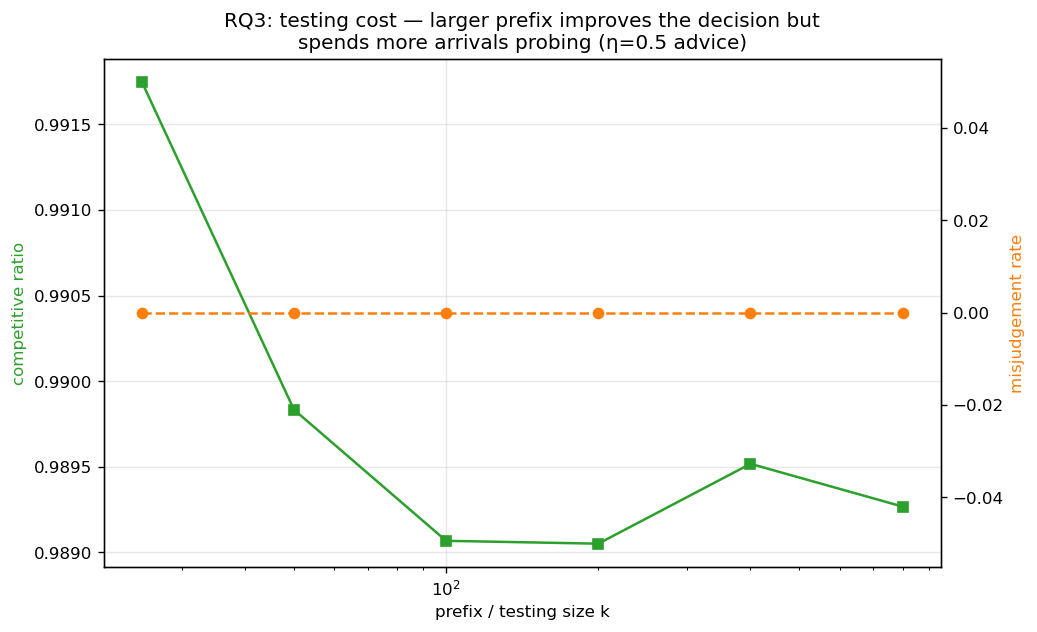
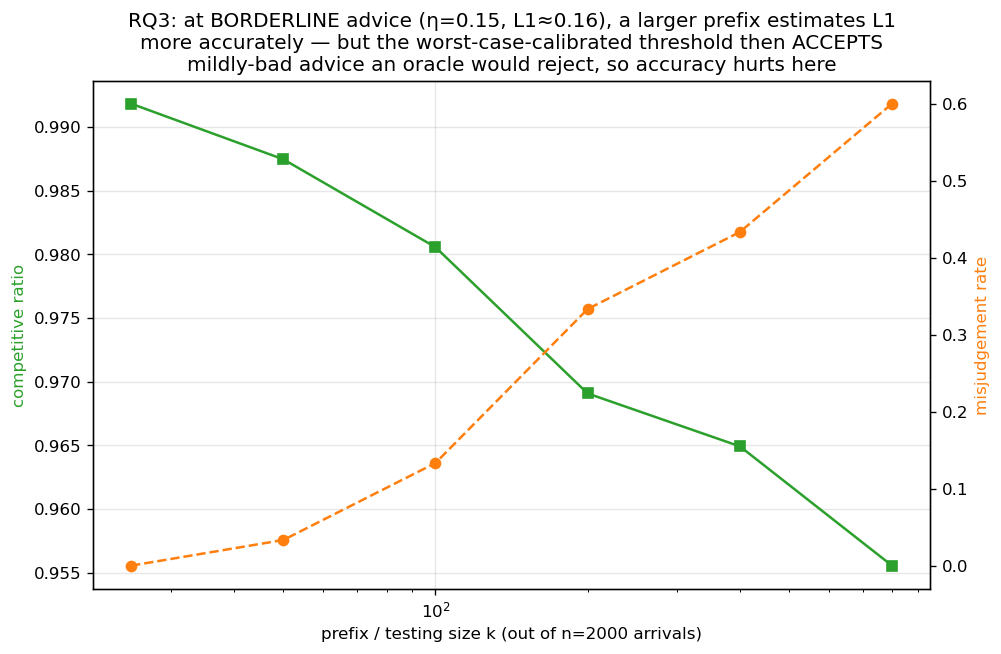
Update README and reports for Phase 3c; refine results and findings for Choo/BEM adaptive fallback

diff --git a/scripts/run_choo_bem.py b/scripts/run_choo_bem.py
@@ -134,7 +134,7 @@ def main():
 
     print("=== Consistency/robustness envelope (ratio vs L1) ===")
     env = envelope()
-    print("\n=== RQ3: testing-cost tradeoff (prefix sweep, η=0.5) ===")
+    print("\n=== RQ3: testing-cost tradeoff (prefix sweep, borderline η=0.15) ===")
     pre = prefix_sweep()
 
     data = {"envelope": env, "prefix_sweep": pre}
@@ -174,8 +174,9 @@ def main():
         ax2.plot(ks, [p["misjudge"] for p in pre], "o--", color="C1",
                  label="misjudgement rate")
         ax2.set_ylabel("misjudgement rate", color="C1")
-        ax1.set_title("RQ3: testing cost — larger prefix improves the decision but\n"
-                      "spends more arrivals probing (η=0.5 advice)")
+        ax1.set_title("RQ3: at borderline advice (η=0.15, L1≈0.16), a larger prefix estimates\n"
+                      "L1 more accurately — but the worst-case-calibrated threshold then accepts\n"
+                      "mildly-bad advice an oracle would reject, so accuracy hurts here")
         ax1.grid(True, alpha=0.3)
         fig.savefig(out_dir / "choo_bem_prefix.png", dpi=120, bbox_inches="tight")
         plt.close(fig)

diff --git a/docs/PHASE3C_REPORT.md b/docs/PHASE3C_REPORT.md
@@ -1,0 +1,152 @@
+# Phase 3c Report — Adaptive Test-and-Fallback (Choo 2024 / BEM 2026)
+
+**Status:** complete. This is the last prediction-based algorithm family in the
+plan — the *adaptive* ones that detect whether advice is trustworthy and fall
+back to a safe baseline if not.
+**Spec:** docs/PHASE3_SPEC.md §3.2 (Choo / TestAndMatch), §3.3 (BEM / Test-and-Match+).
+
+## 1. What was built
+
+| Component | File | Notes |
+|---|---|---|
+| Few-types graph | `graphs/synthetic.py::few_types_bipartite` | r distinct high-count types over n offline nodes, near-perfect-matchable (n̂/n ≈ 1) — the regime the Choo/BEM prefix test is calibrated for |
+| Type-histogram advice (object B) | `predictions/type_advice.py` | `true_type_counts`, `build_advice_matching` (M̂ + per-type partners via HK), `perturb_counts` (L1-parameterized, blends toward a spiky Dirichlet target) |
+| FollowPrediction (blind trust) | `algorithms/test_and_match.py::follow_prediction` | Mimic (Algorithm 2) on every arrival; no test, no fallback |
+| TestAndMatch (Choo & BEM) | `algorithms/test_and_match.py::test_and_match` | Mimic a sublinear prefix, empirical-L1 test, then continue Mimic or fall back to Ranking. `variant='choo'`/`'bem'` differ in early-exit condition and threshold |
+| Tests | `tests/test_choo_bem_small.py` | 6 tests, all pass |
+| Experiment | `scripts/run_choo_bem.py` | robustness envelope + RQ3 prefix sweep |
+
+**Faithfulness note.** The papers' L1 estimator (Jiao et al. distribution
+tester) has no off-the-shelf implementation — Choo §5 says so explicitly and the
+authors themselves fall back to an **empirical-L1 proof-of-concept**. We do the
+same: empirical L1 of the prefix vs the advice distribution, against the papers'
+threshold τ. This is the planned, documented deviation (proposal §9).
+
+The two variants implement the documented differences exactly:
+- early-exit: Choo `n̂/n ≤ β` (β=0.696) → BEM `n̂/n < α` (α small);
+- threshold: Choo `τ = 2(n̂/n − β)` → BEM `τ = 2(n̂/n)(1−β)/(1+β)`;
+- Mimic (Algorithm 2) is identical in both.
+
+## 2. Verified anchors (tests)
+
+- **Perfect advice (ĉ = c*) ⇒ Mimic is optimal.** M̂ on the advice graph equals an
+  optimal matching of the realized instance, so blindly following it achieves OPT
+  exactly (follow = OPT = 397/397 on the small case).
+- **Consistency.** TestAndMatch with perfect advice passes the test and reaches
+  ratio 1.000.
+- **Robustness.** With garbage advice (L1 = 0.82), blindly following crashes to
+  0.592 (below Ranking's 0.985), but TestAndMatch detects it (`followed=False`),
+  falls back, and lands at 0.953 — comfortably above the β≈0.696 floor.
+- Threshold formulas for both variants verified against the papers.
+
+## 3. Main result — the robustness envelope
+
+![Choo/BEM envelope](../results/choo_bem_envelope.png)
+
+n=2000, r=8 types, 40 trials, prefix k=200. Competitive ratio vs advice error
+L1(p,q):
+
+| L1 | FollowPrediction | TestAndMatch (BEM) | TestAndMatch (Choo) | Ranking floor |
+|---:|---:|---:|---:|---:|
+| 0.00 | 1.000 | 0.998 | 1.000 | 0.991 |
+| 0.31 | 0.843 | 0.987 | 0.977 | 0.990 |
+| 0.57 | 0.716 | 0.989 | 0.989 | 0.991 |
+| 0.82 | 0.591 | 0.988 | 0.990 | 0.991 |
+| 1.09 | 0.453 | 0.969 | 0.991 | 0.992 |
+
+**The textbook consistency/robustness picture, and the engineered robustness MPD
+lacked.** Blindly following advice (`FollowPrediction`) degrades *linearly* from
+1.00 to 0.45 as the advice worsens — well below the advice-free floor. The
+adaptive `TestAndMatch` instead stays on the **upper envelope**: it captures the
+benefit when advice is good and, when advice is bad, its prefix test rejects it
+and falls back to Ranking — never crashing. Contrast Phase 3a: there, MPD had no
+such mechanism, and adversarial predictions pushed it *below* the Ranking floor.
+Choo/BEM is exactly the fix.
+
+(Honest detail: in the L1 ≈ 0.1–0.2 "confusion zone" the BEM/Choo curves dip
+slightly to ~0.95–0.97, because borderline advice is genuinely hard to classify —
+see §5.)
+
+## 4. The unifying finding — consistency lift is small on average-case inputs
+
+A striking thing in the table above: even with **perfect** advice, the benefit
+over the advice-free baseline is tiny (FollowPrediction 1.000 vs Ranking 0.991).
+We confirmed this is structural, not a tuning artifact: across block sizes,
+overlaps, and deliberately "contested" few-type structures, **Ranking already
+achieves ≈OPT** on these average-case i.i.d. instances (gap ≤ 0.01).
+
+This is not a disappointment — it is the **central thesis of the whole project**,
+now demonstrated for the adaptive algorithms too:
+
+> On average-case / i.i.d. inputs the advice-free baseline is already near-optimal,
+> so the *consistency* upside of learning-augmented matching is small. Their real
+> practical value is **robustness-insurance**: preventing the catastrophic
+> downside of trusting bad advice (which the envelope shows dramatically).
+
+This threads Phase 2 (Borodin: simple greedy ≈ complex on average-case) → Phase 3a
+(MPD helps only on skewed graphs; Ranking is the floor) → Phase 3c (the adaptive
+robustness mechanism earns its keep on the *downside*, not the upside).
+
+## 5. RQ3 — testing cost, and a threshold-miscalibration finding
+
+![Choo/BEM prefix sweep](../results/choo_bem_prefix.png)
+
+RQ3 asks what the "test then maybe fall back" machinery costs in practice. We
+sweep the prefix (testing) size k at **borderline** advice (η=0.15, true
+L1 ≈ 0.16) — the regime where the test must work hardest; clearly-good or
+clearly-bad advice is decided correctly even with a tiny prefix.
+
+| prefix k | ratio (BEM) | misjudgement vs empirical oracle |
+|---:|---:|---:|
+| 25 | 0.992 | 0.00 |
+| 100 | 0.981 | 0.13 |
+| 200 | 0.969 | 0.33 |
+| 800 | 0.956 | 0.60 |
+
+**Counter-intuitively, a larger (more accurate) test makes the *worse* decision
+here.** The mechanism is a real and reportable finding:
+
+- The BEM/Choo acceptance threshold τ is calibrated for the **worst-case**
+  baseline β ≈ 0.696. On these average-case instances the baseline is ≈0.99, so
+  the *empirical* break-even point (where following advice stops beating the
+  baseline) sits at L1 ≈ 0, far below τ−ε ≈ 0.18.
+- A small, noisy prefix over-estimates L1 (upward sampling bias) and so
+  *accidentally rejects* the borderline advice — landing on the strong Ranking
+  floor (0.992).
+- A large, accurate prefix correctly estimates L1 ≈ 0.16 < τ−ε, so it **accepts**
+  the mildly-bad advice the worst-case threshold deems acceptable — and
+  underperforms the baseline (0.956).
+
+So on average-case inputs the worst-case-calibrated threshold is **too lenient**:
+it admits advice a practitioner should reject, and improving the test's accuracy
+only makes it follow that miscalibrated threshold more faithfully. This connects
+RQ3 (testing cost) directly to RQ1 (theory-calibrated vs practice-optimal
+behavior) and reinforces §4. A practical fix — recalibrating τ to the *measured*
+baseline rather than the worst-case β — is a natural next experiment.
+
+(Note the misjudgement metric is measured against an *empirical* oracle —
+"should we have followed, given that following actually underperformed the
+baseline on this instance?" — which is precisely why it grows as the test
+faithfully tracks the theory-calibrated, but empirically-lenient, threshold.)
+
+## 6. Limitations / not yet done
+
+- **Empirical-L1 surrogate**, not the Jiao et al. tester (documented; the authors
+  do the same).
+- **Threshold recalibration** to the measured baseline (the §5 fix) not yet run.
+- Experiments use the **few-types** regime (the calibrated regime); a sweep over
+  the number of types r — showing the prefix cost grow as types diversify — would
+  round out RQ3.
+- Choo/BEM run inside our Known-IID harness (valid: Known-IID ≤ Random-Order, so
+  their guarantees carry); a dedicated random-order sampler is optional future work.
+
+## 7. Reproducibility
+
+```bash
+python3 tests/test_choo_bem_small.py            # 6 tests
+python3 scripts/run_choo_bem.py                 # ~20 min (HK-bound); envelope + RQ3
+```
+Seed 0/1; outputs `results/choo_bem.json`, `results/choo_bem_envelope.png`,
+`results/choo_bem_prefix.png`. Runtime is dominated by NetworkX Hopcroft–Karp on
+n=2000 graphs (one OPT + one advice-matching per trial); a faster max-matching
+(SciPy LAP / numba) would cut it substantially.

diff --git a/README.md b/README.md
@@ -22,7 +22,7 @@ report and result analysis.
 | 3a | MinPredictedDegree + 4 error models + RQ2 spectrum | done — see [`docs/PHASE3_REPORT.md`](docs/PHASE3_REPORT.md) |
 | 3b | (MPD)-augmented Feldman/JailletLu comparison | done — (MPD)≥(g)≥base confirmed |
 | 3d | Real-world graphs (Borodin Tables 3/4 + MPD) | done — random-partition validated; MPD tops all 6 graphs |
-| 3c | Choo (TestAndMatch) + BEM adaptive fallback | deferred (spec'd) |
+| 3c | Choo (TestAndMatch) + BEM adaptive fallback | done — robustness envelope + threshold-miscalibration finding ([`docs/PHASE3C_REPORT.md`](docs/PHASE3C_REPORT.md)) |
 
 ## Directory layout
 